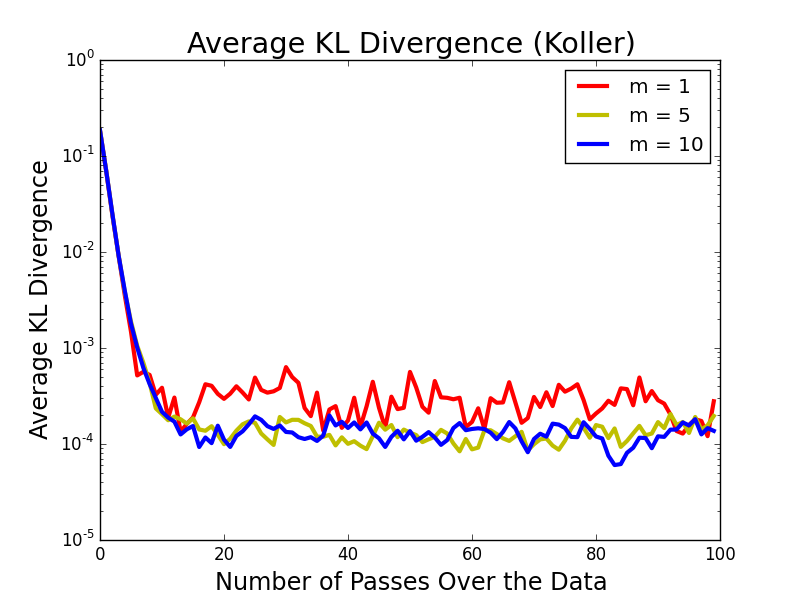
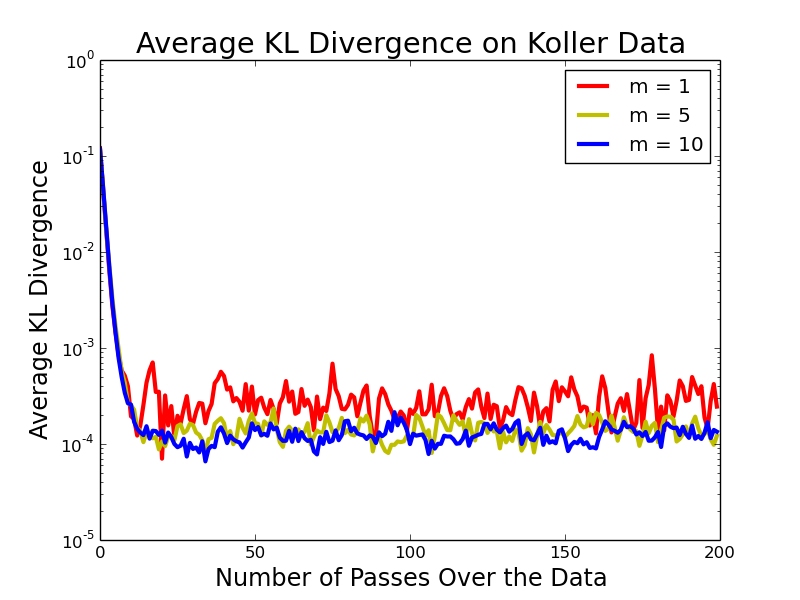
Finished with tables, and Figures 2, 3 are just about done except for possibly some title and legend changes

diff --git a/iclr2016_conference.tex b/iclr2016_conference.tex
@@ -305,14 +305,14 @@ data! I.e., figures should have the title: XXX (Koller) or XXX (MOOC).}
   \centering
   \begin{minipage}{.5\textwidth}
     \centering
-    \includegraphics[width=1\textwidth]{fig_kldiv_twobatches}
-    \caption{The $KL_{\rm avg}$ for BIDMach.}
+    \includegraphics[width=1\textwidth]{fig_kldiv_koller_mb4_gpu}
+    \caption{The $KL_{\rm avg}$ from BIDMach.}
     \label{fig:kl_bidmach}
   \end{minipage}\hfill
     \begin{minipage}{.5\textwidth}
     \centering
     \includegraphics[width=1\textwidth]{fig_kl_div_25_50_perc_jags}
-    \caption{The $KL_{\rm avg}$ for JAGS.}
+    \caption{The $KL_{\rm avg}$ from JAGS.}
     \label{fig:kl_jags}
   \end{minipage}
 \end{figure}
@@ -577,16 +577,17 @@ better figures. Also, I'll keep more detailed results in LaTeX comments.
 % Yeah, a  bit weird that gflops doesn't increase each time ... also, funny how stout is actually
 % faster. That works to our *advantage* here!
 %
-% EDIT: Argh, we may have to re-run this to get times for four mini-batches since that's what I use for Fig 2. 
-% Stout with mb size of 12.5k:
+% EDIT: Argh, we may have to re-run this to get times for FOUR mini-batches since that's what I use
+% for Fig 2. Results on stout with mini-batch sizes of 12.5k:
 %
+% Time=11.0200 secs, gflops=0.66 (m=1)
+% Time=18.0350 secs, gflops=0.81 (m=2)
+% Time=33.0970 secs, gflops=1.10 (m=5)
+% Time=62.2550 secs, gflops=1.17 (m=10)
+% Time=115.3720 secs, gflops=1.27 (m=20)
 %
-%
-%
-%
-%
-%
-% Make sure we mention in the paper that we're deliberately handicapping ourselves.
+% Make sure we mention in the paper that we're deliberately handicapping ourselves. EDIT: wait, wow,
+% 12500 can even be faster in some cases? Yeah, CPU runtime is tricky, but these are ballparks anyway.
 \begin{table}[h]
 \caption{BIDMach (CPU) vs. JAGS Runtime on Koller Data}
 \label{tab:bidmach_jags_koller}
@@ -595,7 +596,7 @@ better figures. Also, I'll keep more detailed results in LaTeX comments.
 \hline
                   & $m=1$ & $m=2$ & $m=5$ & $m=10$ & $m=20$ \\
 \hline \hline
-BIDMach Time/Iter & 0.053 & 0.077 & 0.157 & 0.306 & 0.611 \\ 
+BIDMach Time/Iter & 0.055 & 0.090 & 0.165 & 0.311  & 0.577 \\ 
 JAGS Time/Iter    & & & & & \\
 \hline
 \end{tabular}
@@ -617,12 +618,12 @@ JAGS Time/Iter    & & & & & \\
 % 
 % Here are the CPU BIDMach times on STOUT with the same settings, which is what we report:
 %
-%
-%
-%
+% Time=38.4290 secs, gflops=1.14 (1x)
+% Time=75.0240 secs, gflops=1.17 (2x)
+% Time=186.2360 secs, gflops=1.17 (5x)
 % Time=358.4780 secs, gflops=1.22 (10x)
 % Time=700.2980 secs, gflops=1.25 (20x)
-% (40x)
+% Time=1436.2930 secs, gflops=1.22 (40x)
 %
 % It takes a while with 20x, and absurdly long with 100x ... remember, the batch sizes are the same.
 % Note: I suppose I should run this with 40% data as well...
@@ -634,12 +635,12 @@ JAGS Time/Iter    & & & & & \\
 \caption{BIDMach (CPU) vs. JAGS Runtime on (Replicated) Real MOOC Data}
 \label{tab:bidmach_jags_realmooc}
 \begin{center}
-\begin{tabular}{ |c|c|c|c|c|c| } 
+\begin{tabular}{ |c|c|c|c|c|c|c| } 
 \hline
-                  & 1x    & 2x    & 5x    & 10x   & 20x \\
+                  & 1x    & 2x    & 5x    & 10x   & 20x   & 40x   \\
 \hline \hline
-BIDMach Time/Iter & 0.182 & 0.358 & 0.983 & 1.936 & 3.699 \\ 
-JAGS Time/Iter    & & & & & \\
+BIDMach Time/Iter & 0.182 & 0.375 & 0.931 & 1.792 & 3.501 & 7.181 \\ 
+JAGS Time/Iter    & & & & & & OOM \\
 \hline
 \end{tabular}
 \end{center}

diff --git a/data_and_scripts/Figure2_Material/draw.py b/data_and_scripts/Figure2_Material/draw.py
@@ -41,9 +41,9 @@ legend_labels = [
     "m = 10",
 ]
 
-plt.plot(data[0], signals[0], label=legend_labels[0], linewidth=2.0)
-plt.plot(data[1], signals[1], label=legend_labels[1], linewidth=2.0)
-plt.plot(data[2], signals[2], label=legend_labels[2], linewidth=2.0)
+plt.plot(data[0], signals[0], label=legend_labels[0], linewidth=3.0)
+plt.plot(data[1], signals[1], label=legend_labels[1], linewidth=3.0)
+plt.plot(data[2], signals[2], label=legend_labels[2], linewidth=3.0)
 
 # Be sure to increase the font sizes! I might also have to experiment with a lot of other settings.
 plt.legend(loc='upper right', ncol=1)
